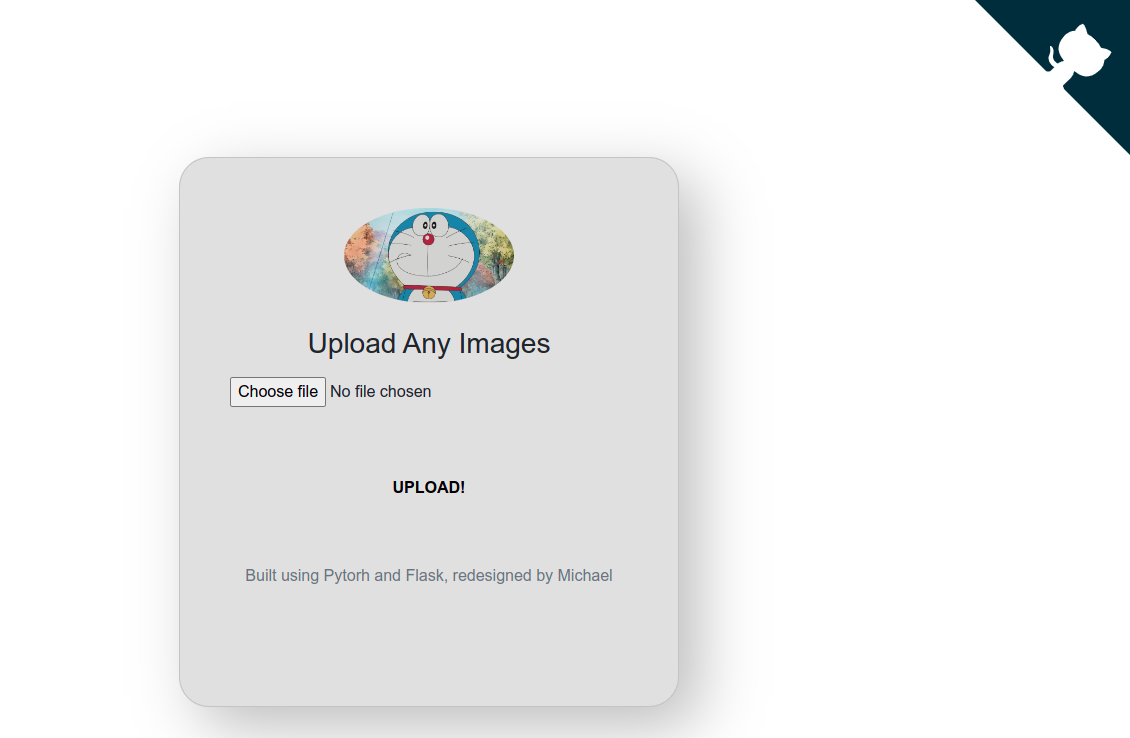
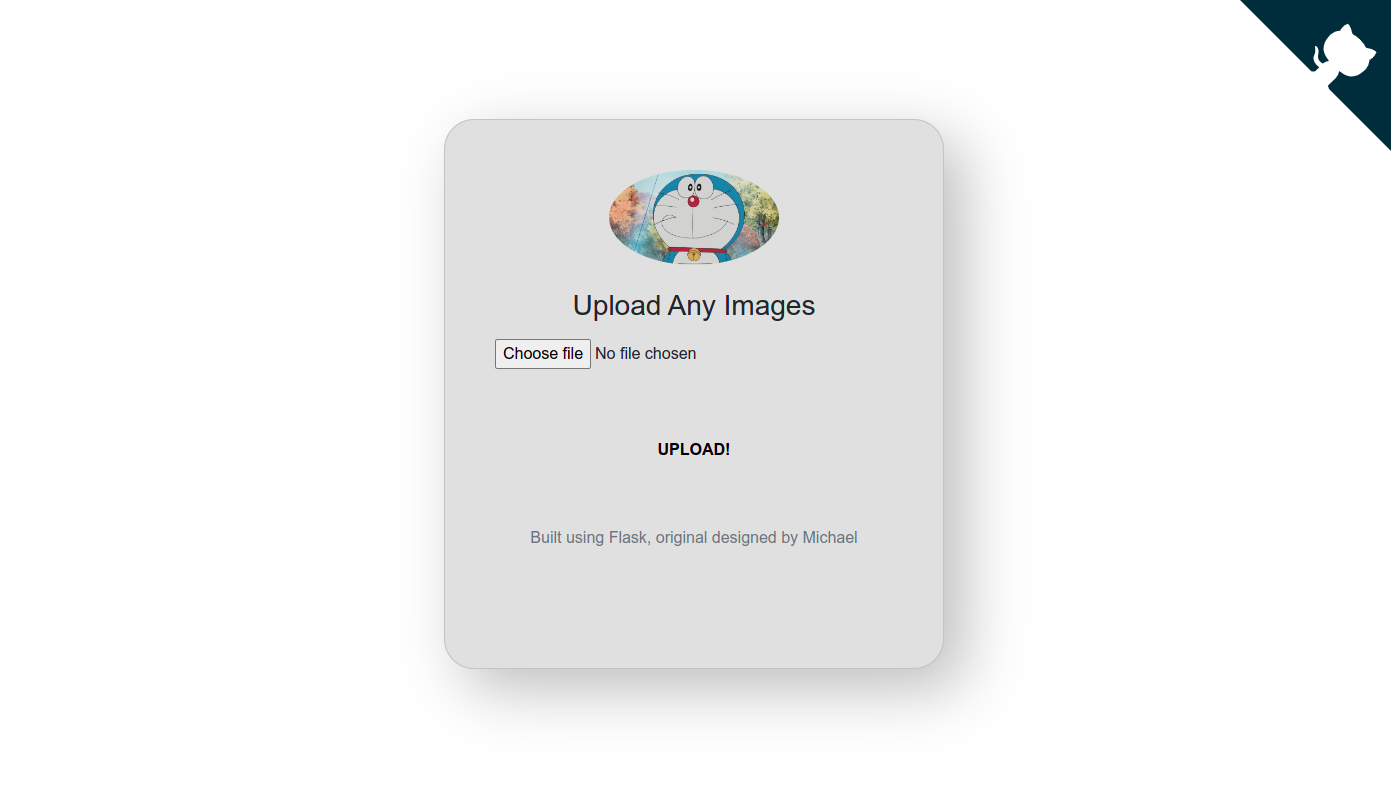
init

diff --git a/templates/index.html b/templates/index.html
@@ -36,7 +36,7 @@
         Upload!
       </span>
     </button>
-    <p class="mt-5 mb-3 text-muted">Built using Pytorh and Flask, redesigned by Michael</p>
+    <p class="mt-5 mb-3 text-muted">Built using Flask, original designed by Michael</p>
   </form>
   <script src="//code.jquery.com/jquery-3.3.1.slim.min.js"
     integrity="sha384-q8i/X+965DzO0rT7abK41JStQIAqVgRVzpbzo5smXKp4YfRvH+8abtTE1Pi6jizo"
